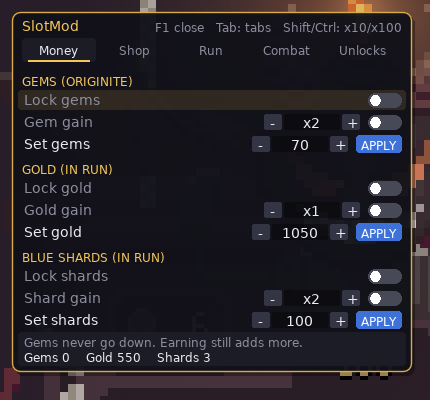
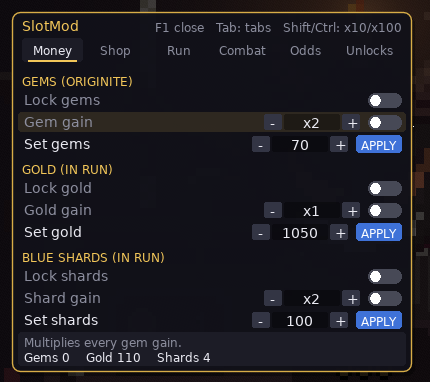
Add Odds tab and utilities adapted from Slotbound OddsMod (MIT, TokioKaze)
- Slot rarity chances with presets, allow locked rarities, Fate Stone L+P weight
- Class symbol chances, Joker chance, guaranteed Joker line
- Free spins, set hearts, free Fate Stone rerolls
- THIRD_PARTY_NOTICES.md with the OddsMod MIT license; README credits

diff --git a/README.md b/README.md
@@ -16,9 +16,9 @@ An in-game mod menu for **Slotbound** (Windows). Every cheat is a switch you can
 |---|---|---|
 | ![Money tab](images/menu-money.png) | ![Shop tab](images/menu-shop.png) | ![Run tab](images/menu-run.png) |
 
-| Combat | Unlocks |
-|---|---|
-| ![Combat tab](images/menu-combat.png) | ![Unlocks tab](images/menu-unlocks.png) |
+| Combat | Odds | Unlocks |
+|---|---|---|
+| ![Combat tab](images/menu-combat.png) | ![Odds tab](images/menu-odds.png) | ![Unlocks tab](images/menu-unlocks.png) |
 
 **Money**
 - Gems (Originite): lock, gain multiplier, set an exact amount
@@ -32,18 +32,30 @@ An in-game mod menu for **Slotbound** (Windows). Every cheat is a switch you can
 - Item inventory size
 - Fixed shop reroll cost (0 = free)
 - Unlimited free core rerolls
+- Free Fate Stone rerolls *
 
 **Run**
 - Lock spins left
 - Fixed spin cost (the price no longer goes up after every paid spin)
 - Unlimited shift / explosion (slot machine ability)
-- God mode (base HP can't drop)
+- Free spins (keeps a free spin credit) *
+- God mode (base HP can't drop), set hearts *
 - Game speed x0.1 to x10
 
 **Combat**
 - Enemy HP, damage and move speed multipliers
 - Freeze enemies, one-hit kills
 - Ally damage and attack speed multipliers, invincible allies
+
+**Odds** *
+- Slot machine rarity: pin the chance of Uncommon / Rare / Legendary / Prismatic units; unpinned rarities share the rest. The help line shows the resulting odds live.
+- Presets: Original, Hard, Medium, Easy, Bliss
+- Allow locked rarities (otherwise rarities you haven't unlocked stay at 0%)
+- Fate Stones: multiply the Legendary + Prismatic weights
+- Class symbols: pin the chance of Warrior / Archer / Spearman / Cavalry / Mage / Duelist
+- Joker chance (0-5%, the game's cap) and a guaranteed Joker line on the middle row
+
+Features marked * are adapted from [Slotbound OddsMod](https://github.com/TokioKaze/-Slotbound-OddsMod-) by TokioKaze (see [Credits](#credits)).
 
 **Unlocks**
 - All upgrades, all stages + difficulties. Turning them on saves a backup first; turning them off restores your previous state.
@@ -109,6 +121,12 @@ launch=..\Slotbound.exe
 - **"Could not start the game"**: start Slotbound yourself, then run `SlotMod.exe`, or set `launch=` in `SlotMod.ini`.
 - **A game update broke something**: the log names the failing part; open an issue with the log attached.
 - **Undo unlocks**: switch "All upgrades" / "All stages + difficulties" off again. The backup is in `SlotMod\slotmod_unlock_backup.txt`.
+
+## Credits
+
+- **Odds features** (slot rarity chances and presets, Fate Stone weights, class-symbol and Joker chances, guaranteed Joker line) and the free spins / set hearts / free Fate Stone reroll utilities are adapted from **[Slotbound OddsMod](https://github.com/TokioKaze/-Slotbound-OddsMod-) by [TokioKaze](https://github.com/TokioKaze)**, licensed under the **MIT License** (Copyright (c) 2026 TokioKaze).
+  OddsMod patches the game's data file instead; SlotMod applies the same ideas at runtime through its menu. The full license text is in [THIRD_PARTY_NOTICES.md](THIRD_PARTY_NOTICES.md).
+  If you only want odds tweaks with a ready-made installer, use OddsMod. Don't run both at the same time: SlotMod notices if OddsMod already hooked the odds and leaves them alone.
 
 ## Disclaimer
 

diff --git a/THIRD_PARTY_NOTICES.md b/THIRD_PARTY_NOTICES.md
@@ -1,0 +1,34 @@
+# Third-party notices
+
+## Slotbound OddsMod
+
+SlotMod's odds features (slot rarity chances, presets, Fate Stone weights, class-symbol chances,
+Joker chance, guaranteed Joker line) and a few utilities (free spins, set hearts, free Fate Stone
+rerolls) are adapted from **Slotbound OddsMod** by **TokioKaze**:
+https://github.com/TokioKaze/-Slotbound-OddsMod-
+
+The adapted parts are in `SlotMod/slotmod.lua` (section "odds") and are marked there.
+
+```
+MIT License
+
+Copyright (c) 2026 TokioKaze
+
+Permission is hereby granted, free of charge, to any person obtaining a copy
+of this software and associated documentation files (the "Software"), to deal
+in the Software without restriction, including without limitation the rights
+to use, copy, modify, merge, publish, distribute, sublicense, and/or sell
+copies of the Software, and to permit persons to whom the Software is
+furnished to do so, subject to the following conditions:
+
+The above copyright notice and this permission notice shall be included in all
+copies or substantial portions of the Software.
+
+THE SOFTWARE IS PROVIDED "AS IS", WITHOUT WARRANTY OF ANY KIND, EXPRESS OR
+IMPLIED, INCLUDING BUT NOT LIMITED TO THE WARRANTIES OF MERCHANTABILITY,
+FITNESS FOR A PARTICULAR PURPOSE AND NONINFRINGEMENT. IN NO EVENT SHALL THE
+AUTHORS OR COPYRIGHT HOLDERS BE LIABLE FOR ANY CLAIM, DAMAGES OR OTHER
+LIABILITY, WHETHER IN AN ACTION OF CONTRACT, TORT OR OTHERWISE, ARISING FROM,
+OUT OF OR IN CONNECTION WITH THE SOFTWARE OR THE USE OR OTHER DEALINGS IN THE
+SOFTWARE.
+```
